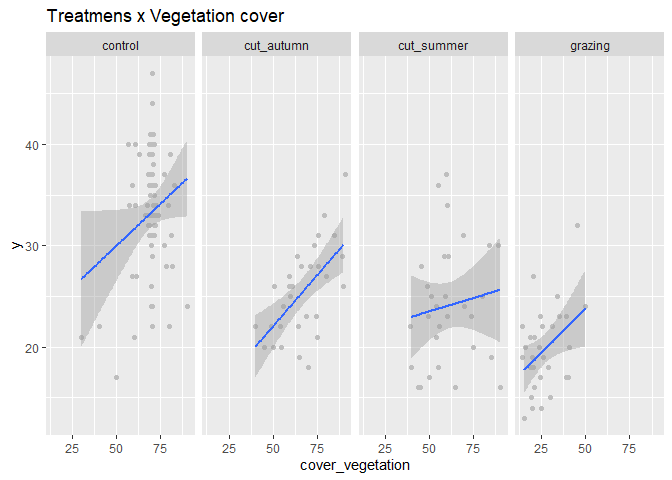
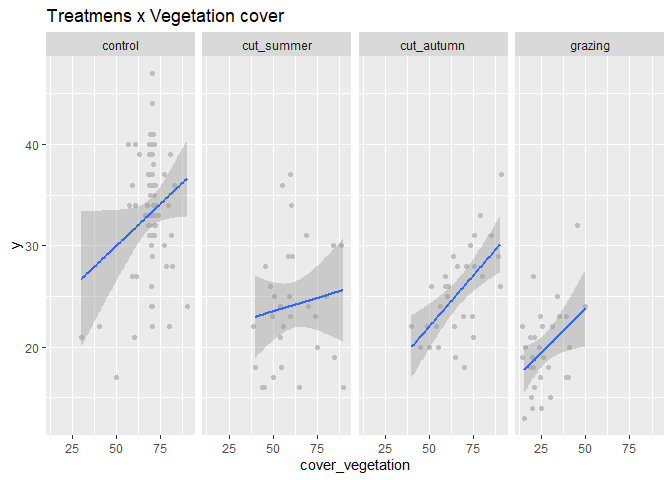
Relevel treatment levels

diff --git a/R/model_check_species_richness.md b/R/model_check_species_richness.md
@@ -67,7 +67,10 @@ library(emmeans)
 sites <- read_csv(
   here("data", "processed", "data_processed_sites.csv"),
   col_names = TRUE, na = c("", "na", "NA"), col_types = cols(
-    .default = "?"
+    .default = "?",
+      treatment = col_factor(
+        levels = c("control", "cut_summer", "cut_autumn", "grazing")
+      )
     )
   ) %>%
   rename(y = richness_total)
@@ -113,10 +116,10 @@ quantile(sites$y, probs = c(0.05, 0.95), na.rm = TRUE)
 
     ## # A tibble: 4 × 2
     ##   treatment      n
-    ##   <chr>      <int>
+    ##   <fct>      <int>
     ## 1 control       68
-    ## 2 cut_autumn    30
-    ## 3 cut_summer    30
+    ## 2 cut_summer    30
+    ## 3 cut_autumn    30
     ## 4 grazing       30
 
 ![](model_check_species_richness_files/figure-gfm/outliers-1.png)<!-- -->
@@ -169,20 +172,12 @@ simulation_output_2 <- simulateResiduals(m_2, plot = TRUE)
 
 ``` r
 plotResiduals(simulation_output_1$scaledResiduals, sites$treatment)
-## Warning in ensurePredictor(simulationOutput, form): DHARMa:::ensurePredictor:
-## character string was provided as predictor. DHARMa has converted to factor
-## automatically. To remove this warning, please convert to factor before
-## attempting to plot with DHARMa.
 ```
 
 ![](model_check_species_richness_files/figure-gfm/dharma_single-1.png)<!-- -->
 
 ``` r
 plotResiduals(simulation_output_2$scaledResiduals, sites$treatment)
-## Warning in ensurePredictor(simulationOutput, form): DHARMa:::ensurePredictor:
-## character string was provided as predictor. DHARMa has converted to factor
-## automatically. To remove this warning, please convert to factor before
-## attempting to plot with DHARMa.
 ```
 
 ![](model_check_species_richness_files/figure-gfm/dharma_single-2.png)<!-- -->
